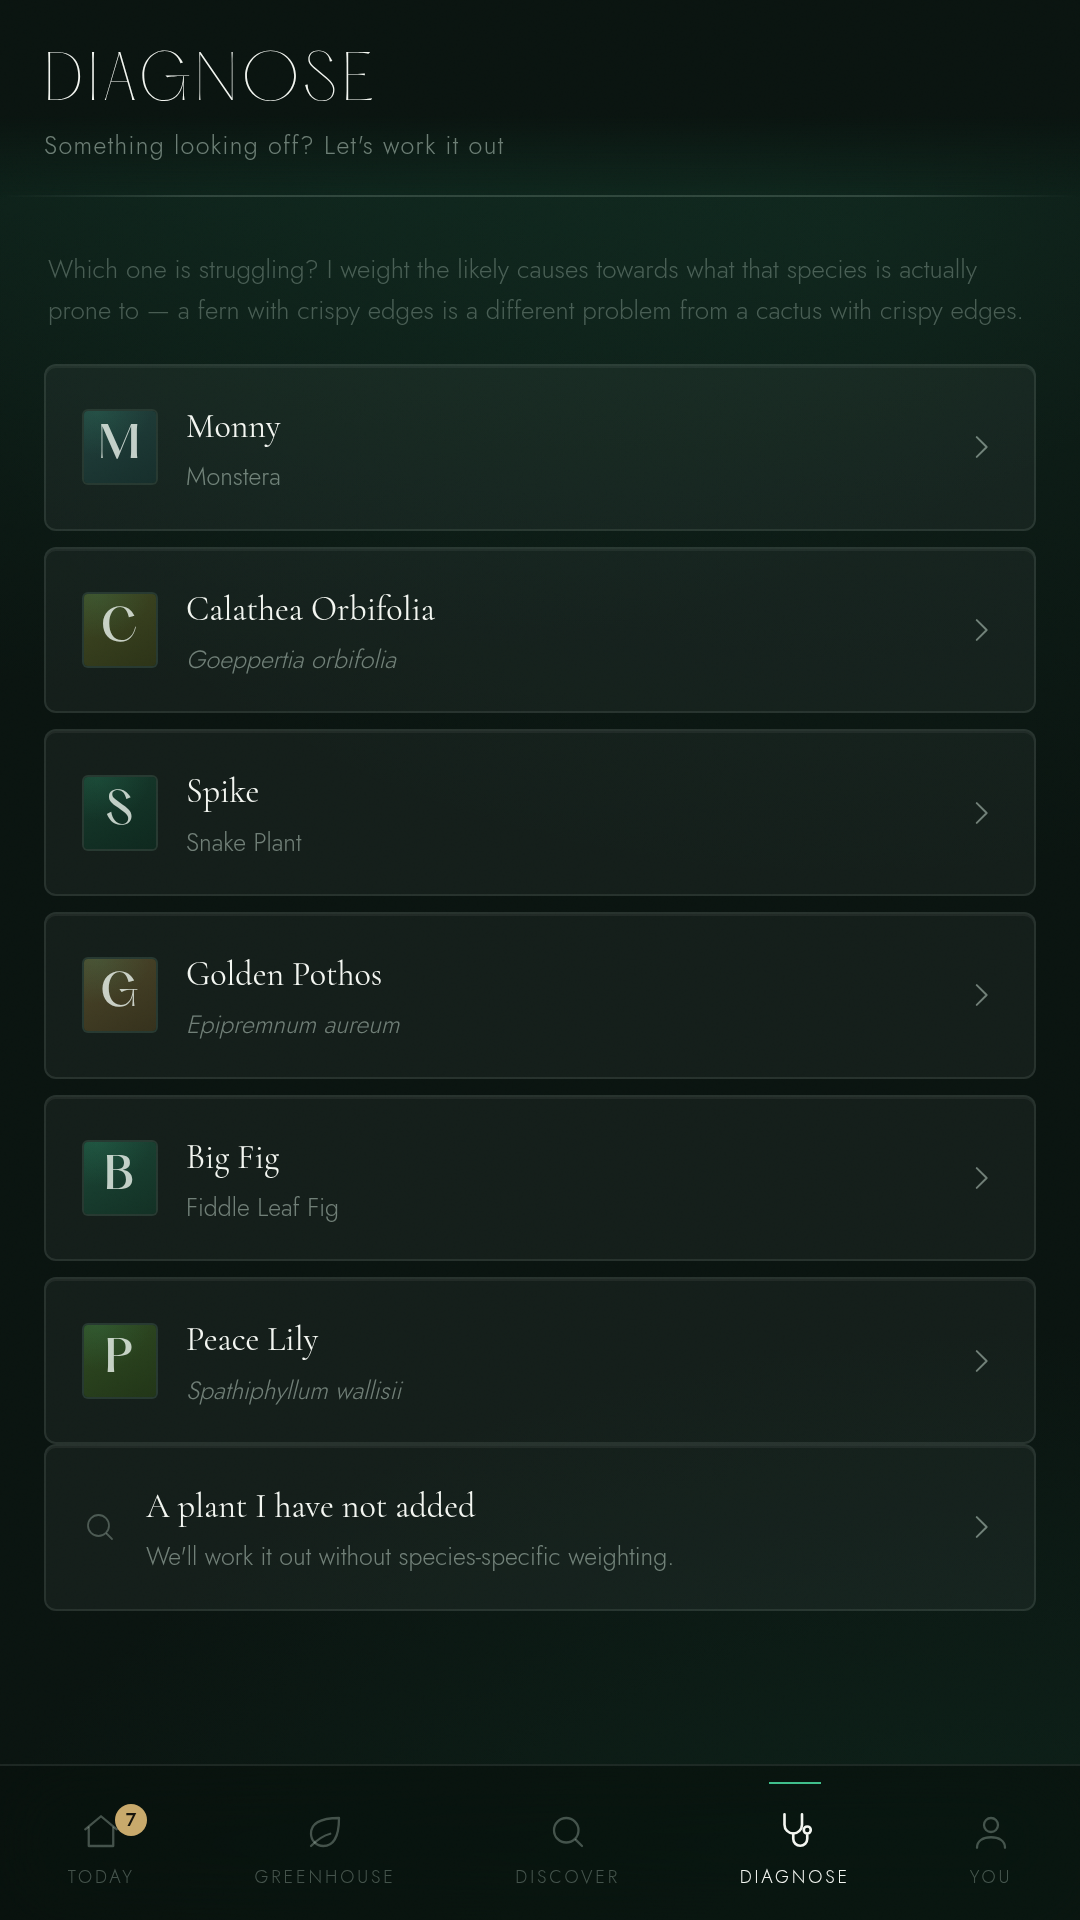
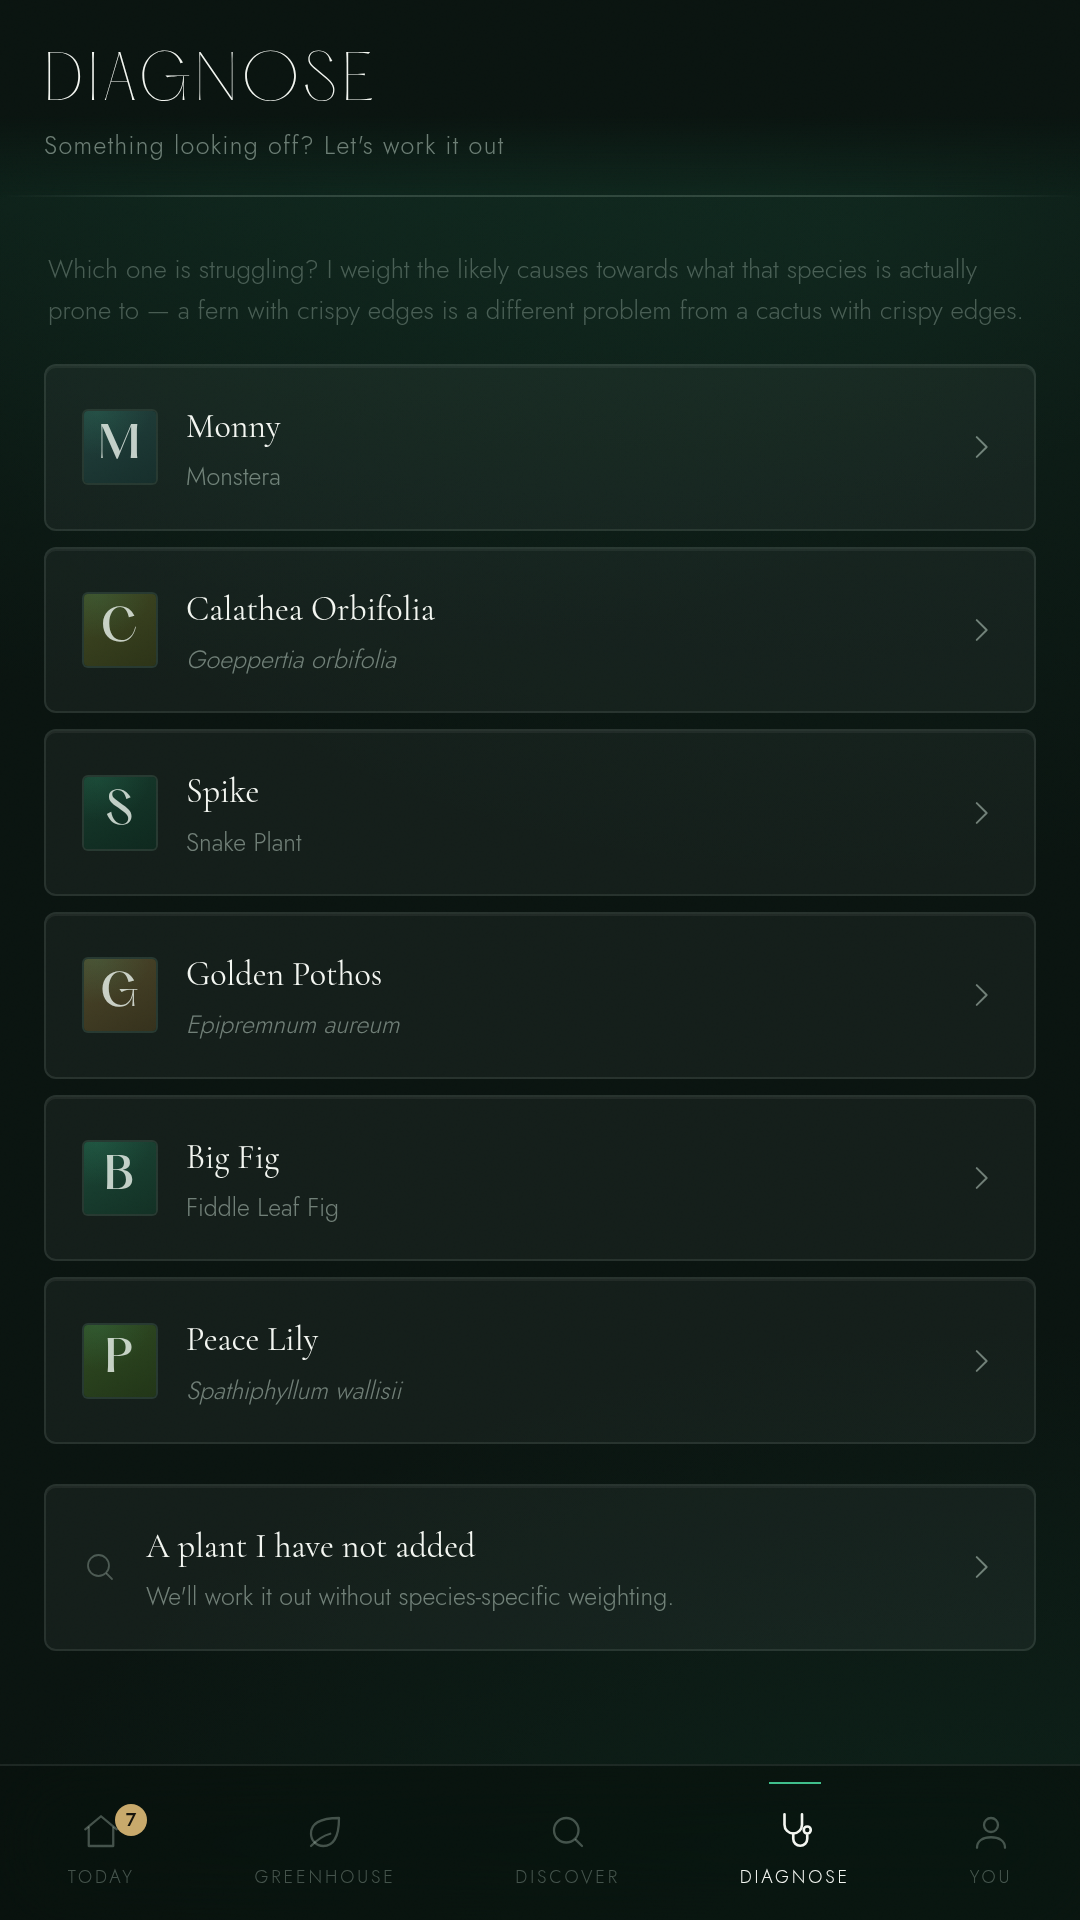
Record what was actually submitted to Play
The listing doc exists so that submission is a copy job rather than a
memory test, which only holds while it matches the listing. Three
things drifted during the first submission:

The short description gained "and home" and is now exactly 80/80. The
floor plan is the one thing no other plant app does and it was missing
from the line Play weights for ranking. At the limit, so anything added
later has to displace something.

Tags are House & home and Lifestyle, and nothing else. Play's tag list
is a fixed taxonomy with no entry for gardening or plants, so the five
the doc suggested cannot be typed in at all. Weather is the tempting
wrong answer: someone browsing it wants a forecast app and bounces, and
a bad-fit install is worse than none.

Target age is 13+, stated rather than offered as a choice. 18+ alone
was the other option the doc allowed, and Play warns on that page that
an adults-only audience lets it restrict availability.

6-diagnose.png is recaptured. It showed the escape hatch flush against
the plant list, which is the bug fixed in bb91ed5 — a screenshot of a
layout the app no longer has.

Claude-Session: https://claude.ai/code/session_01JU3LJHWoTvGgB4JJd7gK1U

Changed region(s): [[0.1222, 0.7812, 0.5194, 0.8438], [0.55, 0.8125, 0.6111, 0.8438]]

diff --git a/native/store-listing.md b/native/store-listing.md
@@ -15,15 +15,17 @@ Brand first, then the words a stranger types. There are already several
 plant apps called some variant of Sprout, so the second word is doing real
 work; "Plant Care" is what makes the listing findable at all.
 
-## Short description — 78 / 80
+## Short description — 80 / 80
 
 ```
-Plant care schedules built from real species data, your pots and your weather.
+Plant care schedules built from real species data, your pots, weather, and home.
 ```
 
 Play shows this under the title in search results and it is weighted for
-ranking, so it carries the three nouns the app is actually about rather than
-an adjective.
+ranking, so it carries the nouns the app is actually about rather than an
+adjective. "and home" is the floor plan, which is the one thing no other
+plant app does, and it earns the last five characters — this is exactly at
+the 80 limit, so anything added has to displace something.
 
 ## Full description — 2,211 / 4,000
 
@@ -101,7 +103,13 @@ was lost. If the plan ever needs re-shooting, it has to come off a phone.
 
 - **Category** — Lifestyle. House & Home is the alternative; Lifestyle is
   where the established plant apps sit, so it is where people browse.
-- **Tags** — gardening, plants, home, reminders, hobbies.
+- **Tags** — **House & home** and **Lifestyle**, and nothing else. Play's tag
+  list is a fixed taxonomy with no entry for gardening or plants, so the five
+  obvious ones cannot be typed in. Two true tags beat five vague ones:
+  Weather in particular looks tempting and is wrong, because someone browsing
+  it wants a forecast app and bounces. Tags feed category browsing and
+  recommendations, not text search — the title and descriptions carry the
+  search words, so nothing is lost here.
 - **Contact email** — `kintukka.developer@gmail.com`. It is published on the
   listing and on the privacy page, which is why it is an address made for
   this rather than a personal or work one. If it ever starts collecting
@@ -125,10 +133,12 @@ Expected outcome: **Everyone / PEGI 3 / rated for all ages.**
 
 ## Target audience and content
 
-- **Target age** — 18 and over, or 13+. Not children. The app is not designed
-  for or appealing to children, so keep every under-13 box unticked; ticking
-  one pulls the listing into the Families programme and a much heavier
-  policy review for no benefit.
+- **Target age** — tick **13-15, 16-17 and 18 and over**. Keep every under-13
+  box unticked: ticking one pulls the listing into the Designed for Families
+  programme and a much heavier policy review for no benefit. Do not tick 18+
+  alone either — Play warns on that page that an adults-only audience lets it
+  apply availability restrictions, and there is nothing in a plant tracker
+  that needs them.
 - **Ads** — **No**, the app contains no ads. This is asked separately from
   Data safety and is checked against the binary.
 - **App access** — all functionality is available without an account. Say so;
